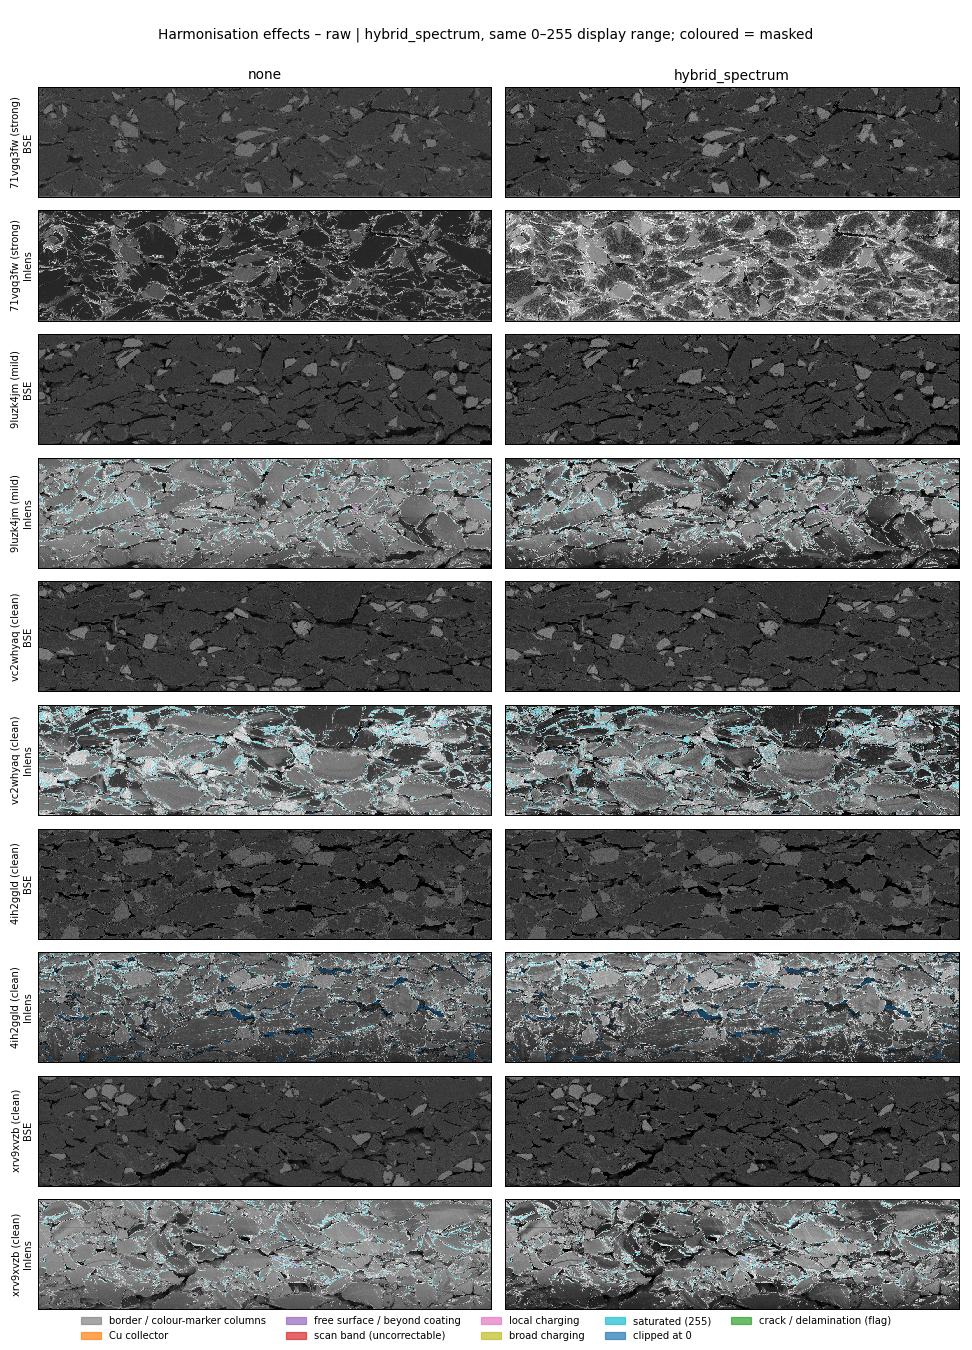
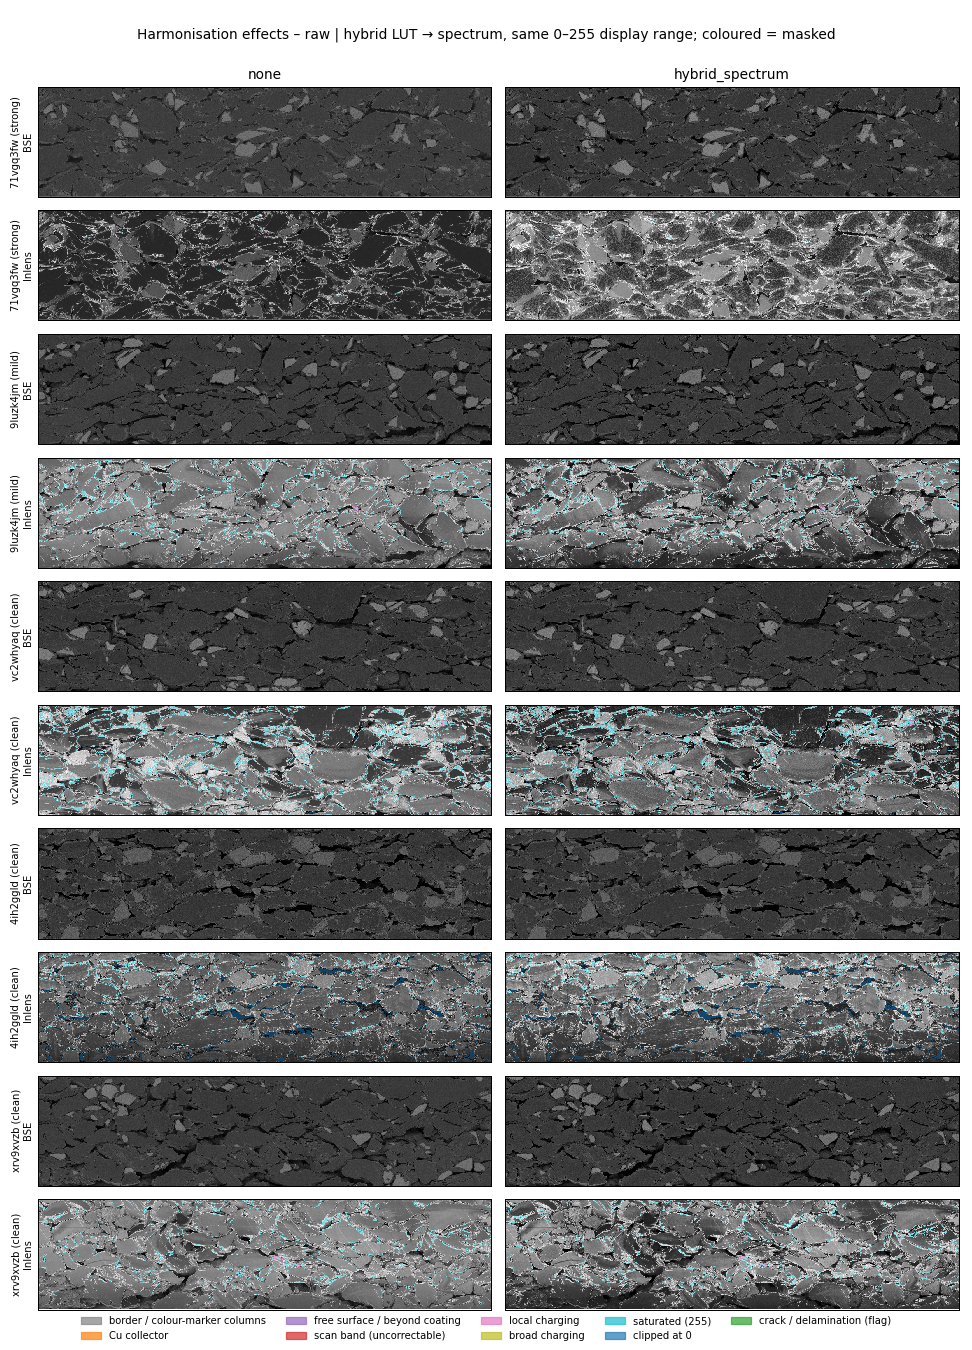
hybrid_spectrum eval: leave-one-parent-out shortcut check (shortcut_lopo.csv), corrected caveat wording (logistic regression; residual Inlens/SE grey signal, not a parent effect); report template lists hybrid_spectrum and the real crop-gallery rule

Changed region(s): [[0.0309, 0.1556, 0.9877, 0.2489], [0.1543, 0.0, 0.8642, 0.0622]]

diff --git a/scripts/eval_harmonise_ext.py b/scripts/eval_harmonise_ext.py
@@ -155,13 +155,14 @@ def _site_metrics(img: np.ndarray, msk: np.ndarray, raw_img: np.ndarray) -> dict
 
 TEXTURE = ("hf_ratio", "noise_sigma", "grad_p90", "edge_sigma_px")
 METHOD_LABEL = {"none": "raw", "nyul": "N4 + Nyúl–Udupa", "basic": "BaSiC", "hybrid": "hybrid LUT",
-                "spectrum": "spectrum (NPS filter)", "fda": "FDA"}
+                "spectrum": "spectrum (NPS filter)", "fda": "FDA", "hybrid_spectrum": "hybrid LUT → spectrum"}
 METHOD_BLURB = {
     "nyul": "**nyul** = N4ITK bias-field correction → Nyúl–Udupa piecewise-linear histogram standardisation (`pmdb/harmonise_ext.py`, `docs/harmonisation_ext.md`)",
     "basic": "**basic** = BaSiC flat-field/dark-field + per-image baseline (`pmdb/harmonise_ext.py`)",
     "spectrum": "**spectrum** = radial amplitude-spectrum (MTF/NPS) matching filter to the labelled median, DC kept (`pmdb/harmonise_shift.py`, `docs/harmonisation_shift.md`)",
     "fda": "**fda** = Fourier Domain Adaptation, low-frequency amplitude window (β = 0.01) from the labelled reference (`pmdb/harmonise_shift.py`)",
     "hybrid": "**hybrid** = in-house LUT route (`pmdb/harmonise.py`), for reference",
+    "hybrid_spectrum": "**hybrid_spectrum** = hybrid LUT followed by the spectrum filter refit on the LUT-corrected grey; the recommended single modelling input (`pmdb/harmonise_shift.py`, `docs/harmonisation_shift.md` §2b)",
 }
 
 
@@ -560,7 +561,7 @@ def _write_report(out: Path, summary: pd.DataFrame, site_df: pd.DataFrame, held:
           "* `texture_shortcut_*`: the same leave-one-out classifier on the four texture statistics only (is the site still identifiable from blur/noise?); `all_shortcut_batch_acc` uses grey + texture.", ""]
     L += ["## What is cut out ('crops')", "",
           "No field contains a Cu collector or the coating free surface (`collector_found`/`free_surface_found` are False on all 34 sites), so",
-          "nothing is cropped for those reasons; `crops_gallery.png` shows the fields where the mask excludes more than 0.2 % of the interior and why", ""]
+          "nothing is cropped for those reasons; `crops_gallery.png` shows the fields where, on any detector, more than 5 % of the interior is excluded from statistics, any interior pixel is KPI-invalid (bad band / charging), or a crack is flagged, and why", ""]
     worst = crops.sort_values("frac_invalid_stats_inner", ascending=False).head(12)
     L.append("| batch | site | detector | interior excluded | border |")
     L.append("|---|---|---|---|---|")

diff --git a/docs/harmonisation_shift.md b/docs/harmonisation_shift.md
@@ -208,12 +208,18 @@ Held-out (models fitted on labelled sites only, applied as-is): BSE hf-ratio 0.1
 Reading: the stack does both jobs on BSE — black level and gain fixed (p1 gap 22 → 3, p90−p10 gap −9 →
 0), and the texture shift gone (hf-ratio gap −0.064 → −0.006, across-site CV 0.11 → 0.009, edge-σ SD
 0.024 → 0.002), with 1.4 % contrast change on clean sites and phase fractions within the `hybrid` range.
-Two honest caveats. (i) The grey-statistics batch shortcut goes 0.61 → 0.68 (chance 0.45): the LUT makes
-the strong group look like the rest, but the spectrum filter maps every site to one noise level, so the
-per-site grey *spread* (p1, p99, std) is now a cleaner function of the parent image and the NB
-classifier picks it up — texture no longer identifies the batch (0.68 → 0.68) and the strong session is
-hidden (strong-vs-rest 1.00 → 0.94 vs chance 0.87), so this is a parent effect, not an imaging one;
-model it with leave-one-parent-out, not with a grey-stat shortcut check. (ii) On Inlens the 1st
+Two honest caveats. (i) The grey-statistics batch shortcut goes 0.61 → 0.68 under leave-one-site-out and,
+under the leave-one-parent-out CV that AGENTS.md requires (`outputs/harmonisation_shift_stack/shortcut_lopo.csv`,
+13 parent folds, chance 0.55), 0.42 → 0.42 → **0.71** for none → hybrid → hybrid_spectrum, while the
+texture-only shortcut falls to chance (0.52 → 0.48 → 0.42) and the strong session cannot be LOPO-tested at
+all (its four sites are one parent). Per detector the grey-stat LOPO accuracy is BSE 0.45 / Inlens 0.58 /
+SE 0.65 for `hybrid_spectrum` (BSE 0.61 / SE 0.65 already for `hybrid`), and material fractions alone give
+0.52–0.58, so the residual batch signal sits in the Inlens/SE tail statistics (p1, std) that the spectrum
+stage moves per site — see (ii) — not in BSE grey levels or in texture. So: the imaging-session (strong)
+fingerprint and the texture shift are removed, but a 27-feature grey-statistics classifier on all three
+detectors is *not* at chance after `hybrid_spectrum`; use BSE as the primary channel and run the grey-stat
+shortcut check on whatever channel set a model actually consumes.
+(ii) On Inlens the 1st
 percentile is a noise-floor measure, not a black level: the strong sites' Inlens high-frequency deficit
 is −41 %, so matching their spectrum to the reference adds high-frequency amplitude and their p1 rises
 from 9 to 24–27 (raw clean sites sit at 15–32), while eight clean sites that were *smoothed* towards the

diff --git a/outputs/harmonisation_shift_stack/REPORT.md b/outputs/harmonisation_shift_stack/REPORT.md
@@ -3,6 +3,7 @@
 Methods compared on the `pmdb.clean`-masked half-res grey (`none` is the raw grey at the same coordinates):
 
 * **hybrid** = in-house LUT route (`pmdb/harmonise.py`), for reference
+* **hybrid_spectrum** = hybrid LUT followed by the spectrum filter refit on the LUT-corrected grey; the recommended single modelling input (`pmdb/harmonise_shift.py`, `docs/harmonisation_shift.md` §2b)
 
 ## Summary (labelled sites)
 
@@ -54,7 +55,7 @@ Methods compared on the `pmdb.clean`-masked half-res grey (`none` is the raw gre
 ## What is cut out ('crops')
 
 No field contains a Cu collector or the coating free surface (`collector_found`/`free_surface_found` are False on all 34 sites), so
-nothing is cropped for those reasons; `crops_gallery.png` shows the fields where the mask excludes more than 0.2 % of the interior and why
+nothing is cropped for those reasons; `crops_gallery.png` shows the fields where, on any detector, more than 5 % of the interior is excluded from statistics, any interior pixel is KPI-invalid (bad band / charging), or a crack is flagged, and why
 
 | batch | site | detector | interior excluded | border |
 |---|---|---|---|---|
